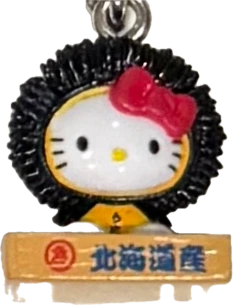
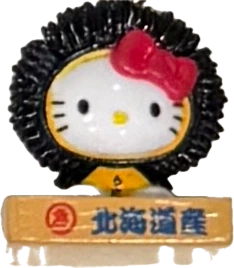
Discover only picks charms you can see, and six crop fixes
Discover chooses *for* the visitor, so landing them on placeholder artwork is
worse than skipping that charm. Its pool is now the owned designs that have a
photograph -- 21 of 34 -- via a new hasPhoto() helper. The other 13 stay
reachable by drilling into their prefecture, nothing is hidden. Falls back to
the full pool if nothing has a photo, so the button cannot become a no-op.

Crop fixes, all from owner review:
- 0026 antler was clipped on the right
- 0027 now uses IMG_1491, the only front-facing frame of the four -- Kitty
  square to the camera with a hinomaru and a JAPAN PASSPORT, instead of the
  side-on shot whose appeal was text on the wings
- 0029 Kitty's left side was clipped
- 0034 top brought down to where the red starts
- 0035 top brought down slightly
- 0037 left side was clipped

Verified: check:content 9/9, check:pages 23 assertions across 63 pages, tsc,
lint, build.

diff --git a/components/MapExplorer.tsx b/components/MapExplorer.tsx
@@ -3,6 +3,7 @@
 import { useCallback, useEffect, useLayoutEffect, useMemo, useRef, useState } from "react";
 import type { CSSProperties } from "react";
 import type { DesignView } from "@/lib/charms";
+import { hasPhoto } from "@/lib/charms";
 import { REGIONS, REGION_LIST, regionForCode, type RegionKey } from "@/lib/regions";
 import { PREFECTURES } from "@/lib/prefectures";
 import { PREFECTURE_BOUNDS, REGION_BOUNDS, type Bounds } from "@/lib/map-bounds";
@@ -437,10 +438,16 @@ export default function MapExplorer({ charms }: { charms: DesignView[] }) {
   }, []);
 
   const handleDiscover = useCallback(() => {
-    // The pool is all 25 owned designs, placeless included (D1) -- `charms`
-    // is already exactly that (app/page.tsx hands MapExplorer the
-    // items.length > 0 filter, never the 29 documented-only designs).
-    const pool = charms;
+    // The pool is the owned designs, placeless included (D1) -- `charms` is
+    // already exactly that (app/page.tsx hands MapExplorer the items.length > 0
+    // filter, never the documented-only designs) -- narrowed to those that can
+    // show a photograph. Discover is the one surface that chooses *for* the
+    // visitor, so handing them a placeholder is a worse outcome than skipping
+    // that charm; every charm remains reachable by drilling into its
+    // prefecture. Falls back to the whole pool if nothing has a photo yet, so
+    // the button can never become a no-op.
+    const withPhoto = charms.filter(hasPhoto);
+    const pool = withPhoto.length > 0 ? withPhoto : charms;
     if (pool.length === 0) return;
 
     // No-repeat window (D2): exclude the most recent WINDOW picks. The

diff --git a/lib/charms.ts b/lib/charms.ts
@@ -104,6 +104,13 @@ export interface CharmView {
   imageUrl: string | null;
 }
 
+/** True when a design can show an actual photograph rather than CharmArt —
+ * either our own photo of the copy on the shelf, or a design-level reference
+ * image. Discover uses this to pick only charms a visitor can actually *see*. */
+export function hasPhoto(design: DesignView): boolean {
+  return design.imageUrl != null || design.items.some((i) => i.imageUrl != null);
+}
+
 export function toCharmView(design: DesignView): CharmView {
   const item = design.items[0];
   return {
